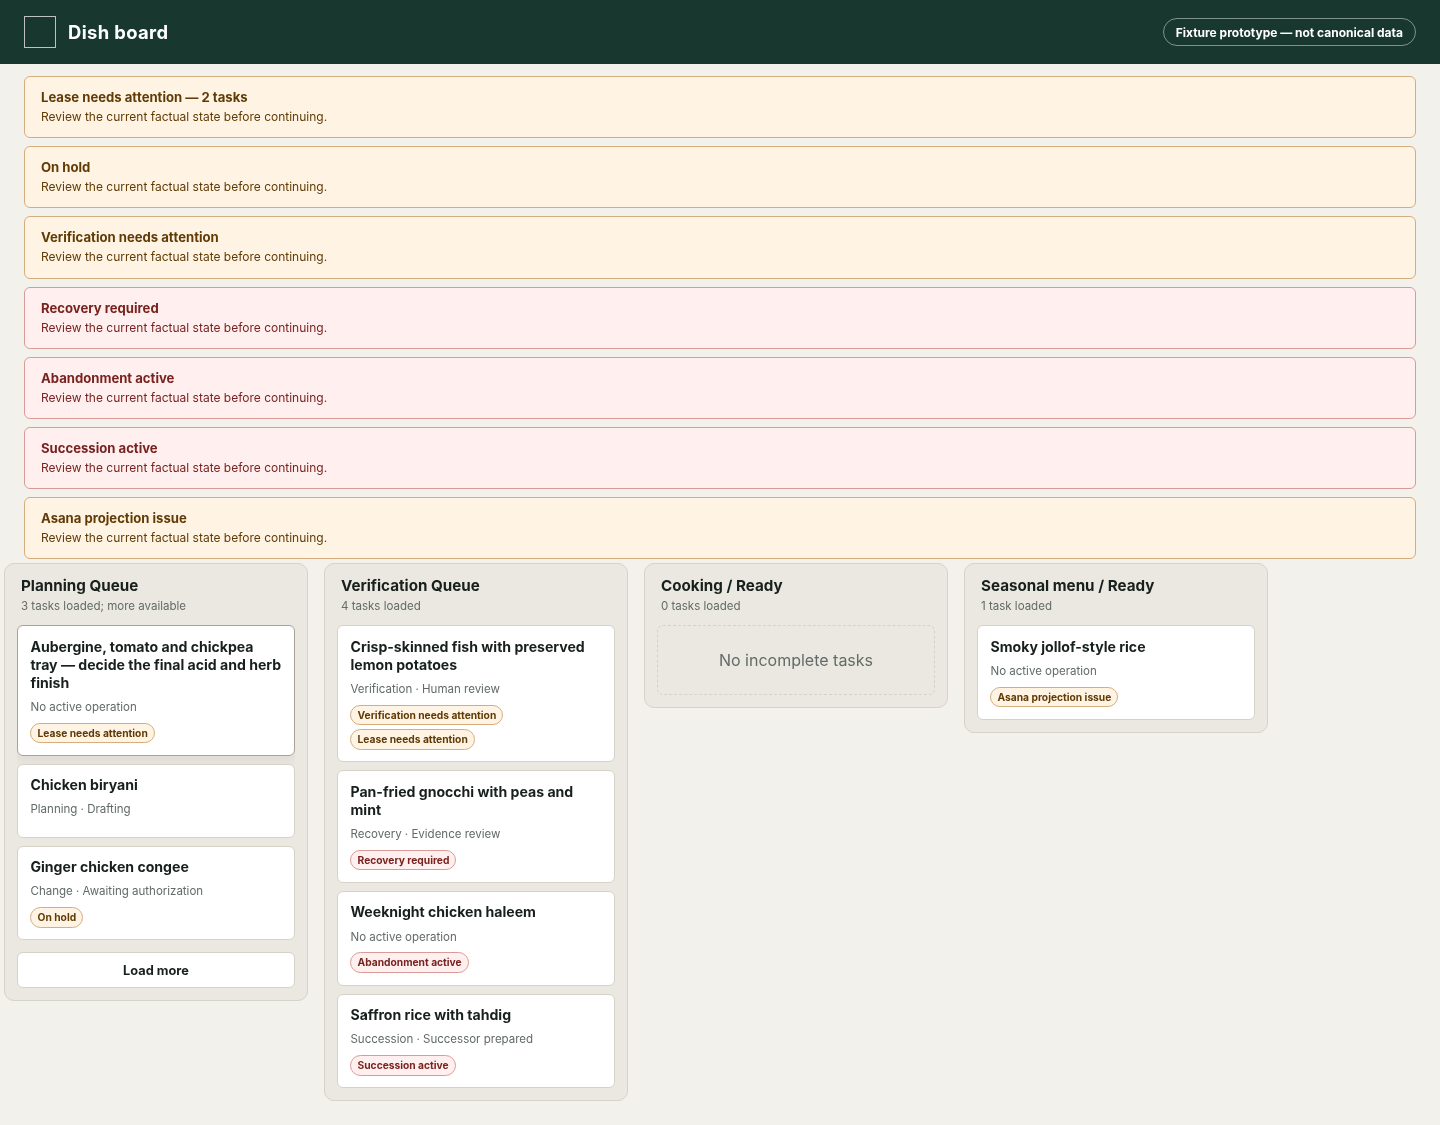
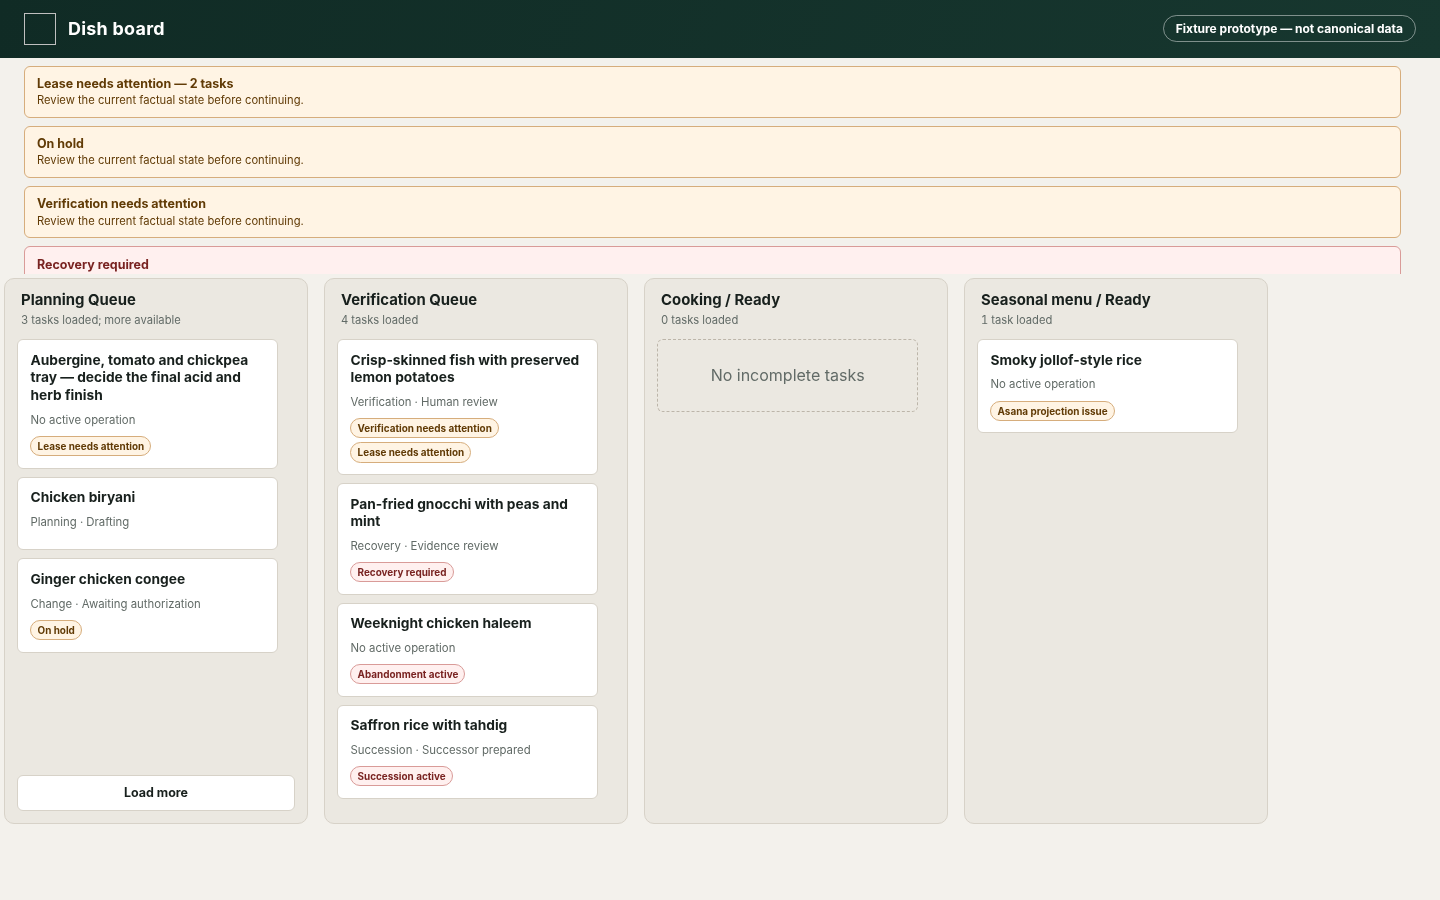
style(frontend): harden fixture prototype layout and visual resilience
Complete the visual-hardening pass over the accepted fixture prototype.

- bound the shell to the desktop viewport with intentional region scrolling
- refine card density, hierarchy, wrapping, focus, and selected state
- stabilize the detail panel and review controls at supported widths
- harden notices and extreme content without changing product authority
- add browser resilience checks across the supported desktop viewports

This retains fixture behavior and adds no backend, authentication, canonical
data, workflow, or mutation surface.

diff --git a/dish/frontend/dist/styles/review.css b/dish/frontend/dist/styles/review.css
@@ -3,10 +3,15 @@
   align-items: center;
   justify-content: space-between;
   gap: var(--space-4);
+  min-height: 2.75rem;
   padding: var(--space-2) var(--space-5);
   border-block-end: 1px solid #d6ad7c;
   background: #fff4e4;
   color: #613b06;
+}
+
+body[data-detail-open="true"] .application-shell > .review-toolbar {
+  padding-inline-end: calc(var(--panel-width) + var(--space-5));
 }
 
 .review-toolbar__identity {
@@ -17,25 +22,30 @@
 }
 
 .review-toolbar__identity strong {
-  font-size: 0.78rem;
+  flex: 0 0 auto;
+  font-size: 0.76rem;
   letter-spacing: 0.04em;
   text-transform: uppercase;
 }
 
 .review-toolbar__identity span,
 .review-toolbar__field span {
-  font-size: 0.72rem;
+  overflow: hidden;
+  font-size: 0.7rem;
+  text-overflow: ellipsis;
+  white-space: nowrap;
 }
 
 .review-toolbar__field {
   display: flex;
+  flex: 0 0 auto;
   align-items: center;
   gap: var(--space-2);
   font-weight: 700;
 }
 
 .review-toolbar select {
-  max-width: 18rem;
+  width: 13rem;
   min-height: 2rem;
   padding-inline: var(--space-2);
   border: 1px solid #c69a65;
@@ -44,7 +54,6 @@
   color: var(--color-ink);
 }
 
-.login-layout + .review-toolbar,
 .app-root > .review-toolbar {
   position: fixed;
   z-index: 30;

diff --git a/dish/frontend/src/styles/review.css b/dish/frontend/src/styles/review.css
@@ -3,10 +3,15 @@
   align-items: center;
   justify-content: space-between;
   gap: var(--space-4);
+  min-height: 2.75rem;
   padding: var(--space-2) var(--space-5);
   border-block-end: 1px solid #d6ad7c;
   background: #fff4e4;
   color: #613b06;
+}
+
+body[data-detail-open="true"] .application-shell > .review-toolbar {
+  padding-inline-end: calc(var(--panel-width) + var(--space-5));
 }
 
 .review-toolbar__identity {
@@ -17,25 +22,30 @@
 }
 
 .review-toolbar__identity strong {
-  font-size: 0.78rem;
+  flex: 0 0 auto;
+  font-size: 0.76rem;
   letter-spacing: 0.04em;
   text-transform: uppercase;
 }
 
 .review-toolbar__identity span,
 .review-toolbar__field span {
-  font-size: 0.72rem;
+  overflow: hidden;
+  font-size: 0.7rem;
+  text-overflow: ellipsis;
+  white-space: nowrap;
 }
 
 .review-toolbar__field {
   display: flex;
+  flex: 0 0 auto;
   align-items: center;
   gap: var(--space-2);
   font-weight: 700;
 }
 
 .review-toolbar select {
-  max-width: 18rem;
+  width: 13rem;
   min-height: 2rem;
   padding-inline: var(--space-2);
   border: 1px solid #c69a65;
@@ -44,7 +54,6 @@
   color: var(--color-ink);
 }
 
-.login-layout + .review-toolbar,
 .app-root > .review-toolbar {
   position: fixed;
   z-index: 30;

diff --git a/dish/frontend/tools/browser_harness.py b/dish/frontend/tools/browser_harness.py
@@ -120,6 +120,39 @@ def assert_shells(browser) -> None:
     page.close()
 
 
+
+def assert_visual_resilience(browser) -> None:
+    for width, height in ((1024, 768), (1280, 800), (1440, 900), (1920, 1080)):
+        page = browser.new_page(viewport={"width": width, "height": height})
+        prepare_page(page, "extreme", "task-extreme", review_mode=True)
+        page.get_by_role("dialog").wait_for()
+        metrics = page.evaluate("""() => {
+          const panel = document.querySelector('.task-detail').getBoundingClientRect();
+          const select = document.querySelector('.review-toolbar select').getBoundingClientRect();
+          const notices = document.querySelector('.notice-stack');
+          const cards = document.querySelector('.board-column__cards');
+          return {
+            pageWidth: document.documentElement.scrollWidth,
+            pageHeight: document.documentElement.scrollHeight,
+            panelLeft: panel.left,
+            panelWidth: panel.width,
+            selectRight: select.right,
+            noticesClient: notices.clientHeight,
+            noticesScroll: notices.scrollHeight,
+            cardsClient: cards.clientHeight,
+            cardsScroll: cards.scrollHeight,
+          };
+        }""")
+        assert metrics["pageWidth"] <= width
+        assert metrics["pageHeight"] <= height
+        assert 400 <= metrics["panelWidth"] <= 500
+        assert metrics["selectRight"] <= metrics["panelLeft"]
+        assert metrics["noticesClient"] <= 216
+        assert metrics["noticesScroll"] >= metrics["noticesClient"]
+        assert metrics["cardsScroll"] >= metrics["cardsClient"]
+        page.close()
+
+
 def capture_shells(browser) -> None:
     SCREENSHOTS.mkdir(parents=True, exist_ok=True)
     page = browser.new_page(viewport={"width": 1440, "height": 900})
@@ -139,9 +172,12 @@ def capture_shells(browser) -> None:
     page.screenshot(path=SCREENSHOTS / "stage-1c-grouped-banners.png", full_page=True)
     prepare_page(page, "extreme", "task-extreme", review_mode=True)
     page.screenshot(path=SCREENSHOTS / "stage-1e-review-extreme.png", full_page=True)
+    page.screenshot(path=SCREENSHOTS / "stage-1f-polished-extreme.png", full_page=True)
     page.set_viewport_size({"width": 1024, "height": 768})
     prepare_page(page, "app", "task-biryani")
     page.screenshot(path=SCREENSHOTS / "stage-1d-minimum-viewport.png", full_page=True)
+    prepare_page(page, "extreme", "task-extreme", review_mode=True)
+    page.screenshot(path=SCREENSHOTS / "stage-1f-minimum-viewport.png", full_page=True)
     page.close()
 
 
@@ -158,7 +194,8 @@ def main() -> None:
         try:
             if args.mode == "test":
                 assert_shells(browser)
-                print("Playwright shell checks passed")
+                assert_visual_resilience(browser)
+                print("Playwright shell and visual-resilience checks passed")
             else:
                 capture_shells(browser)
                 print(f"Captured frontend screenshots in {SCREENSHOTS}")

diff --git a/dish/frontend/stage-notes/stage-1f.md b/dish/frontend/stage-notes/stage-1f.md
@@ -1,0 +1,17 @@
+# Delivery Stage 1F — visual and interaction hardening
+
+## Real
+
+- Viewport-bounded application layout with independent board, notice, column, and detail scrolling.
+- Resilient long-content wrapping, selected-card treatment, compact notice density, and reduced-motion-safe card feedback.
+- Review controls remain visible beside the detail panel rather than being obscured by it.
+- Browser checks at 1024, 1280, 1440, and 1920 pixel desktop widths.
+
+## Fixture-backed
+
+- All visual content, lifecycle outcomes, and route identities remain deterministic non-canonical fixtures.
+
+## Intentionally absent
+
+- No authentication or canonical service integration was added during the polish pass.
+- No responsive contract below the approved 1024-pixel desktop minimum is claimed.
